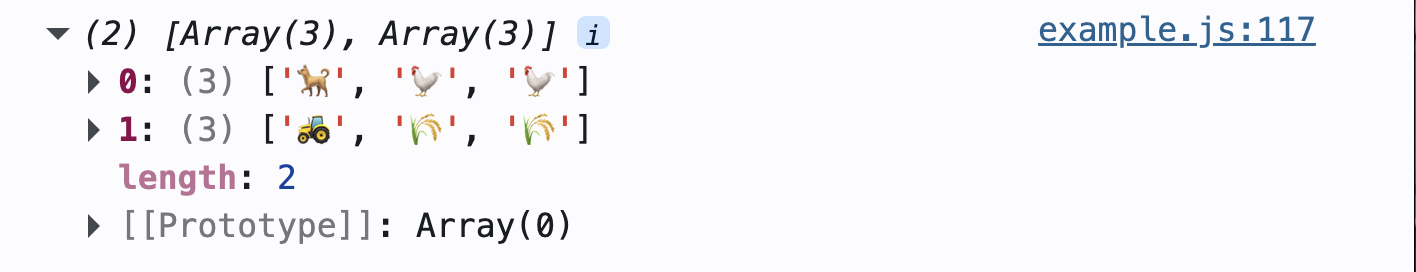
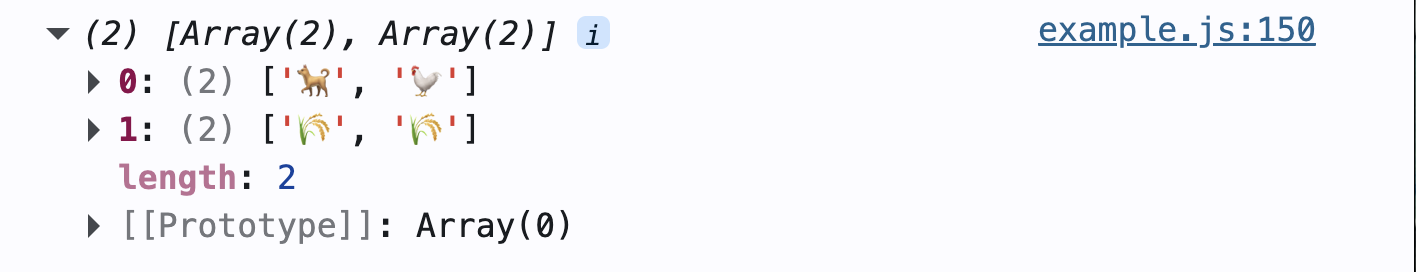
.

diff --git a/index.html b/index.html
@@ -425,13 +425,17 @@ const goodFormatting = [
             </p>
 
             <pre><code class="language-javascript">const inventory = [
-  ["⚔️", "🛡️", "🧪"],
-  ["🍎", "🍕", "🍩"],
-  ["👒", "🧣", "🧦"],
+  ["⚔️", "🛡️", "🧪"], // Рядок 0: Спорядження
+  ["🍎", "🍕", "🍩"], // Рядок 1: Їжа
+  ["👒", "🧣", "🧦"], // Рядок 2: Одяг
 ];
 
-console.log("Food:", inventory[1]);
+// Виводимо у консоль весь другий рядок (з індексом 1)
+// Ми ніби відкриваємо тільки одну полицю з їжею
+console.log("Food:", inventory[1]); 
 
+// Дістаємо пончик: спочатку заходимо на полицю [1], 
+// а потім беремо предмет на позиції [2]
 console.log("Donut:", inventory[1][2]);</code></pre>
 
             <img src="./images/example2.png" alt="console output" />
@@ -463,12 +467,16 @@ console.log("Donut:", inventory[1][2]);</code></pre>
               нове.
             </p>
 
-            <pre><code class="language-javascript">const map = [
-  ["🌱", "🌱"],
-  ["🌱", "🌱"],
+            <pre><code class="language-javascript">// Створюємо порожню ділянку 2x2, де скрізь росте трава
+const map = [
+  ["🌱", "🌱"], // Рядок 0 (верхній)
+  ["🌱", "🌱"], // Рядок 1 (нижній)
 ];
 
+// Садимо соняшник: верхній рядок [0], друга клітинка [1]
 map[0][1] = "🌻";
+
+// Садимо тюльпан: нижній рядок [1], перша клітинка [0]
 map[1][0] = "🌷";
 
 console.log(map);</code></pre>
@@ -502,11 +510,14 @@ console.log(map);</code></pre>
   ["🌷", "🌷"],
 ];
 
-garden.pop(); // 1. Видаляємо останній рядок
+// Видаляємо останній рядок
+garden.pop(); 
 
-garden.push(["🌸", "🌸", "🌸"]); // 2. Додаємо новий рядок в кінці масиву
+// Додаємо новий рядок в кінці масиву
+garden.push(["🌸", "🌸", "🌸"]); 
 
-garden[0].push("🌻"); // 3. Додаємо одну квітку в 1-й рядок
+// Додаємо одну квітку в 1-й рядок
+garden[0].push("🌻"); 
 
 console.log(garden);</code></pre>
 
@@ -537,21 +548,19 @@ console.log(garden);</code></pre>
   ["🌾", "🌾"],
 ];
 
-farm.shift(); // 1. Видаляємо перший рядок (корови пішли на пасовище)
-farm.unshift(["🐓", "🐓"]); // 2. Додаємо курей у новий перший рядок
+// Видаляємо перший рядок 
+farm.shift(); 
+
+ // Додаємо курей як новий перший рядок
+farm.unshift(["🐓", "🐓"]);
+
+// Видаляємо курку на початку першого рядка
+farm[0].shift(); 
+
+// Додаємо собаку на початок першого рядка
+farm[0].unshift("🐕"); 
 
 console.log(farm);</code></pre>
-
- <img
-              src="./images/example8.png"
-              alt="результат методів shift та unshift"
-            />
-
-<pre><code class="language-javascript">farm[0].unshift("🐕"); // 3. Додаємо собаку на початок першого рядка
-farm[1].unshift("🚜"); // 4. Додаємо трактор на початок другого рядка
-
-console.log(farm);</code></pre>
-
 
             <img
               src="./images/example9.png"
@@ -567,14 +576,12 @@ console.log(farm);</code></pre>
               <span class="accent">будь-якому місці</span> масиву.
             </p>
 
-            <p>Синтаксис:</p>
             <pre><code class="language-javascript">// для зміни цілого рядка (або кількох рядків):
 масив.splice(індекс_початку, кількість_видалення, нові_елементи);
 
 // для зміни елементів в одному рядку:
 масив[індекс_рядка].splice(індекс_початку, кількість_видалення, нові_елементи);</code></pre>
 
-            <p>Приклад:</p>
             <pre><code class="language-javascript">const forest = [
   ["🌲", "🌲", "🌲", "🌲", "🌲"],
   ["🌲", "🌲", "🌲", "🌲", "🌲"]
@@ -642,9 +649,8 @@ console.log(forest);</code></pre>
 
               <div>
                 <p>
-                  Масив <span class="accent">map</span> (мапа) має 5 рядків
-                  та 5 колонок, і спочатку там лише росте трава і є самотній
-                  будинок.
+                  Масив <span class="accent">map</span> (мапа) має 5 рядків та 5
+                  колонок, і спочатку там лише росте трава і є самотній будинок.
                   <span class="accent">Використай двовимірні індекси</span>, щоб
                   заповнити цю мапу різними елементами (смайликами).
                 </p>
@@ -676,7 +682,7 @@ console.log(forest);</code></pre>
                 <p>
                   У цьому завданні, замість того, щоб змінювати по одній
                   клітинці за раз, ми будемо змінювати цілі рядки за допомогою
-                 <span class="accent">методів масиву</span>.
+                  <span class="accent">методів масиву</span>.
                 </p>
                 <ol>
                   <li>
@@ -690,19 +696,18 @@ console.log(forest);</code></pre>
                   </li>
                   <li>
                     <span class="accent">Ліс.</span> За допомогою спеціального
-                    методу
-                    <span class="accent">видали останній</span> рядок масиву.
-                    Далі, використавши інший метод,
+                    методу <span class="accent">видали останній</span> рядок
+                    масиву. Далі, використавши інший метод,
                     <span class="accent">додай</span> на його місце новий
                     масив-рядок з деревами (🌲):
                     <img src="./images/task2-2-2.png" alt="code result" />
                   </li>
                   <li>
-                    <span class="accent">Тюльпани.</span> Двічі використавши метод
-                    <span class="accent">splice</span>, додай по два тюльпани
-                    (🌷) у <span class="accent">другому</span> та
-                    <span class="accent">четвертому</span> рядках (у єдиних клітинках,
-                    які досі залишилися порожніми):
+                    <span class="accent">Тюльпани.</span> Двічі використавши
+                    метод <span class="accent">splice</span>, додай по два
+                    тюльпани (🌷) у <span class="accent">другому</span> та
+                    <span class="accent">четвертому</span> рядках (у єдиних
+                    клітинках, які досі залишилися порожніми):
                     <img src="./images/task2-2-3.png" alt="code result" />
                   </li>
                 </ol>

diff --git a/example.js b/example.js
@@ -116,16 +116,35 @@ const fruits = [
  
 // console.log(farm);
 
-const forest = [
-  ["🌲", "🌲", "🌲", "🌲", "🌲"],
-  ["🌲", "🌲", "🌲", "🌲", "🌲"]
+// const forest = [
+//   ["🌲", "🌲", "🌲", "🌲", "🌲"],
+//   ["🌲", "🌲", "🌲", "🌲", "🌲"]
+// ];
+ 
+// // У першому рядку (індекс 0),
+// // починаючи з 2-ї позиції (індекс 1),
+// // видалимо два дерева (2)
+// // і додамо замість них гриби ("🍄", "🍄"):
+ 
+// forest[0].splice(1, 2, "🍄", "🍄");
+ 
+// console.log(forest);
+
+const farm = [
+  ["🐄", "🐄"],
+  ["🌾", "🌾"],
 ];
  
-// У першому рядку (індекс 0),
-// починаючи з 2-ї позиції (індекс 1),
-// видалимо два дерева (2)
-// і додамо замість них гриби ("🍄", "🍄"):
+// Видаляємо перший рядок 
+farm.shift(); 
  
-forest[0].splice(1, 2, "🍄", "🍄");
+ // Додаємо курей як новий перший рядок
+farm.unshift(["🐓", "🐓"]);
  
-console.log(forest);
+// Видаляємо курку на початку першого рядка
+farm[0].shift(); 
+ 
+// Додаємо собаку на початок першого рядка
+farm[0].unshift("🐕"); 
+ 
+console.log(farm);